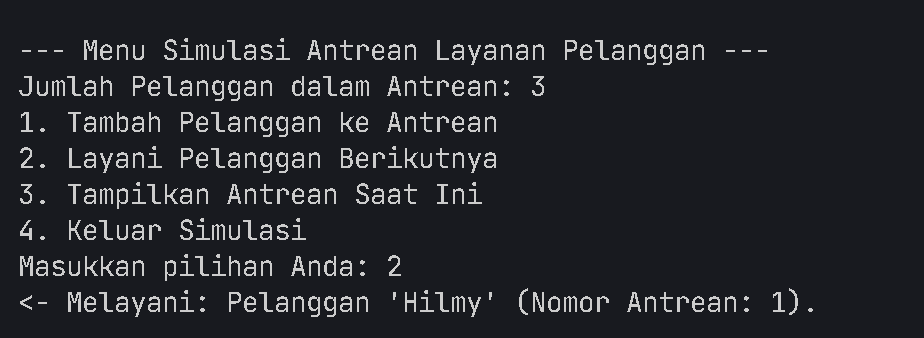
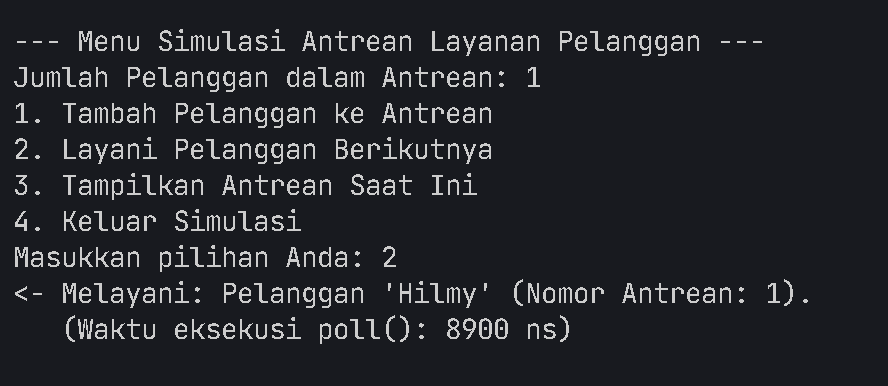
Add System.nanoTime() and fix ss

diff --git a/Queue/AntreanLayananPelanggan.java b/Queue/AntreanLayananPelanggan.java
@@ -1,67 +1,81 @@
-package Queue; // Gunakan nama package yang sama
+package Queue; 
 
 import java.util.LinkedList;
 import java.util.Queue;
 
-
 /**
  * Class untuk mengelola antrean layanan pelanggan menggunakan Queue berbasis LinkedList.
+ * Termasuk pengukuran waktu eksekusi untuk operasi inti.
  */
 public class AntreanLayananPelanggan {
-    // Menggunakan LinkedList sebagai implementasi Queue untuk Pelanggan
     private Queue<Pelanggan> antrean;
-    private int nomorAntreanTerakhir; // Counter untuk nomor antrean berikutnya
+    private int nomorAntreanTerakhir;
 
     public AntreanLayananPelanggan() {
-        this.antrean = new LinkedList<>(); // Inisialisasi antrean
-        this.nomorAntreanTerakhir = 0; // Mulai nomor antrean dari 0 (akan jadi 1 saat pertama kali tambah)
+        this.antrean = new LinkedList<>();
+        this.nomorAntreanTerakhir = 0;
         System.out.println("Sistem Antrean Layanan Pelanggan telah dibuka.");
     }
 
     /**
-     * Menambahkan pelanggan baru ke akhir antrean.
+     * Menambahkan pelanggan baru ke akhir antrean dan mengukur waktu eksekusi offer().
      * @param namaPelanggan Nama dari pelanggan yang akan ditambahkan.
      * @return Nomor antrean yang didapatkan pelanggan.
-     * @throws IllegalArgumentException jika nama pelanggan kosong.
      */
     public int tambahPelanggan(String namaPelanggan) {
-        // Validasi nama bisa dilakukan di sini atau di class Pelanggan
         if (namaPelanggan == null || namaPelanggan.trim().isEmpty()) {
-             System.out.println("Gagal menambahkan: Nama pelanggan tidak boleh kosong.");
-             return -1; // Indikasi gagal
-             // atau throw new IllegalArgumentException("Nama pelanggan tidak boleh kosong.");
+            System.out.println("Gagal menambahkan: Nama pelanggan tidak boleh kosong.");
+            return -1;
         }
 
-        int nomorBaru = ++nomorAntreanTerakhir; // Increment dulu baru pakai
+        int nomorBaru = ++nomorAntreanTerakhir;
         Pelanggan pelangganBaru = new Pelanggan(namaPelanggan, nomorBaru);
-        boolean berhasilDitambah = antrean.offer(pelangganBaru); // offer() lebih aman
+
+        long startTime = System.nanoTime();
+        boolean berhasilDitambah = antrean.offer(pelangganBaru); // Ukur waktu eksekusi offer()
+        long endTime = System.nanoTime();
+
+        long duration = endTime - startTime; 
 
         if (berhasilDitambah) {
             System.out.println("-> Pelanggan '" + pelangganBaru.getNama() + "' dengan nomor antrean [" + pelangganBaru.getNomorAntrean() + "] telah ditambahkan.");
+            System.out.println("   (Waktu eksekusi offer(): " + duration + " ns)"); // Cetak waktu eksekusi
             return nomorBaru;
         } else {
-            System.out.println("Gagal menambahkan pelanggan '" + namaPelanggan + "' ke antrean (Mungkin karena masalah kapasitas?).");
-            nomorAntreanTerakhir--; // Batalkan increment jika gagal
-            return -1; // Indikasi gagal
+            System.out.println("Gagal menambahkan pelanggan '" + namaPelanggan + "' ke antrean.");
+            nomorAntreanTerakhir--;
+            return -1;
         }
     }
 
     /**
-     * Melayani (mengeluarkan) pelanggan dari depan antrean.
+     * Melayani (mengeluarkan) pelanggan dari depan antrean dan mengukur waktu eksekusi poll().
      * @return Pelanggan yang dilayani, atau null jika antrean kosong.
      */
     public Pelanggan layaniPelangganBerikutnya() {
-        Pelanggan pelangganDilayani = antrean.poll(); // poll() mengembalikan null jika antrean kosong
-        if (pelangganDilayani != null) {
-            System.out.println("<- Melayani: Pelanggan '" + pelangganDilayani.getNama() + "' (Nomor Antrean: " + pelangganDilayani.getNomorAntrean() + ").");
-        } else {
-            System.out.println("Antrean kosong, tidak ada pelanggan untuk dilayani saat ini.");
+        if (antrean.isEmpty()) {
+             System.out.println("Antrean kosong, tidak ada pelanggan untuk dilayani saat ini.");
+             return null;
         }
+
+        long startTime = System.nanoTime();
+        Pelanggan pelangganDilayani = antrean.poll(); // Ukur waktu eksekusi poll()
+        long endTime = System.nanoTime();
+
+        long duration = endTime - startTime; 
+
+        if (pelangganDilayani != null) { // Seharusnya tidak null karena sudah dicek isEmpty, tapi untuk keamanan
+            System.out.println("<- Melayani: Pelanggan '" + pelangganDilayani.getNama() + "' (Nomor Antrean: " + pelangganDilayani.getNomorAntrean() + ").");
+            System.out.println("   (Waktu eksekusi poll(): " + duration + " ns)"); // Cetak waktu eksekusi
+        }
+        // (Tidak perlu else karena sudah ditangani di awal)
+
         return pelangganDilayani;
     }
 
     /**
      * Menampilkan semua pelanggan yang sedang dalam antrean.
+     * (Tidak diukur waktunya secara eksplisit di sini, fokus pada offer/poll)
      */
     public void tampilkanAntrean() {
         System.out.println("\n===== Daftar Antrean Layanan Pelanggan =====");
@@ -69,13 +83,11 @@ public class AntreanLayananPelanggan {
             System.out.println("Antrean saat ini kosong.");
         } else {
             int i = 1;
-            // Iterasi tanpa mengubah antrean
             for (Pelanggan p : antrean) {
                 System.out.println(i + ". Nama: " + p.getNama() + " (Nomor Antrean: " + p.getNomorAntrean() + ")");
                 i++;
             }
-            // Menampilkan siapa yang berikutnya tanpa mengeluarkan
-            Pelanggan berikutnya = antrean.peek(); // peek() melihat elemen depan tanpa menghapus
+            Pelanggan berikutnya = antrean.peek();
              if (berikutnya != null) {
                  System.out.println("   (Berikutnya dilayani: " + berikutnya.getNama() + " ["+ berikutnya.getNomorAntrean() +"])");
              }
@@ -83,19 +95,11 @@ public class AntreanLayananPelanggan {
         System.out.println("=========================================\n");
     }
 
-    /**
-     * Memeriksa apakah antrean kosong.
-     * @return true jika antrean kosong, false jika tidak.
-     */
-     public boolean isAntreanKosong() {
-         return antrean.isEmpty();
-     }
+    public boolean isAntreanKosong() {
+        return antrean.isEmpty();
+    }
 
-     /**
-      * Mendapatkan jumlah pelanggan dalam antrean saat ini.
-      * @return Jumlah pelanggan dalam antrean.
-      */
-     public int getJumlahAntrean() {
-         return antrean.size();
-     }
+    public int getJumlahAntrean() {
+        return antrean.size();
+    }
 }

diff --git a/Queue/Pelanggan.java b/Queue/Pelanggan.java
@@ -1,4 +1,4 @@
-package Queue; // Ganti nama package jika perlu
+package Queue; 
 
 /**
  * Class untuk merepresentasikan pelanggan dalam antrean layanan.

diff --git a/Queue/SimulasiLayananPelanggan.java b/Queue/SimulasiLayananPelanggan.java
@@ -1,5 +1,4 @@
-package Queue; // Gunakan nama package yang sama
-
+package Queue; 
 import java.util.Scanner;
 
 /**
